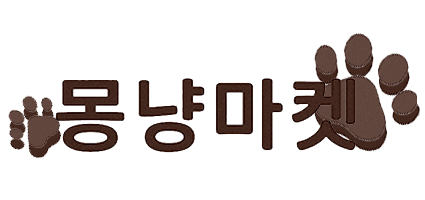
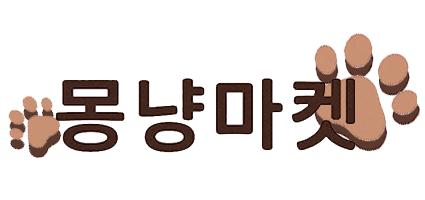
로고변경

Changed region(s): [[0.7341, 0.15, 1.0, 0.75], [0.0, 0.48, 0.1529, 0.78]]

diff --git a/pet_front/src/components/main/StickyBanner.jsx b/pet_front/src/components/main/StickyBanner.jsx
@@ -24,15 +24,31 @@ export default function StickyBanner() {
 
   return (
     <StickyWrapper>
-      <a href='#'>
-        <img src='/images/banner1.png' alt='광고1' />
+      <div style={{ border: '1px solid rgb(161, 154, 154)', padding: '50px 20px', background: 'rgb(247, 242, 242)' }}>
+        <b>[테스트용] 관리자 ID</b>
+        <br />
+        aa@naver.com
+        <br />
+        <b>[테스트용] 관리자 PW</b> <br />
+        MongNyang12345!
+        <br />
+        <br />
+        <b>[테스트용] 일반유저 ID</b>
+        <br />
+        cc@naver.com
+        <br />
+        <b>[테스트용] 일반유저 PW</b>
+        <br />
+        MongNyang12345!
+        <br />
+      </div>
+
+      {/* <a href='#'>
+        <img src='/images/banner1.png' alt='광고추가' />
       </a>
       <a href='#'>
-        <img src='/images/banner2.png' alt='광고2' />
-      </a>
-      <a href='#'>
-        <img src='/images/banner3.png' alt='광고3' />
-      </a>
+        <img src='/images/banner2.png' alt='광고추가' />
+      </a> */}
     </StickyWrapper>
   );
 }

diff --git a/pet_front/src/components/Layout/Footer.jsx b/pet_front/src/components/Layout/Footer.jsx
@@ -10,11 +10,11 @@ export default function Footer() {
             <img src={logo} alt='로고' />
           </div>
           <p>사랑스러운 반려동물을 위한 특별한 쇼핑몰</p>
-          <p>티스토리 | ha7708.tistory.com</p>
-          <p>깃허브 | https://github.com/heaminjo/pet_project/tree/%EC%A0%95%EC%84%9C%EC%98%81-branch</p>
+          <p> tistory | ha7708.tistory.com </p>
+          {/* <p>깃허브 | https://github.com/heaminjo/pet_project/tree/%EC%A0%95%EC%84%9C%EC%98%81-branch</p> */}
+          <p> Notion | https://circular-alloy-d7c.notion.site/245ade4dadab8025a8a1c00c29488475 </p>
 
           <ul class='footer-team'>{/* <li>조해민 | 정서영 | 남장욱</li> */}</ul>
-
           <p class='footer-copy'>© 2025 Mongnyang Market. All rights reserved.</p>
         </div>
       </footer>
